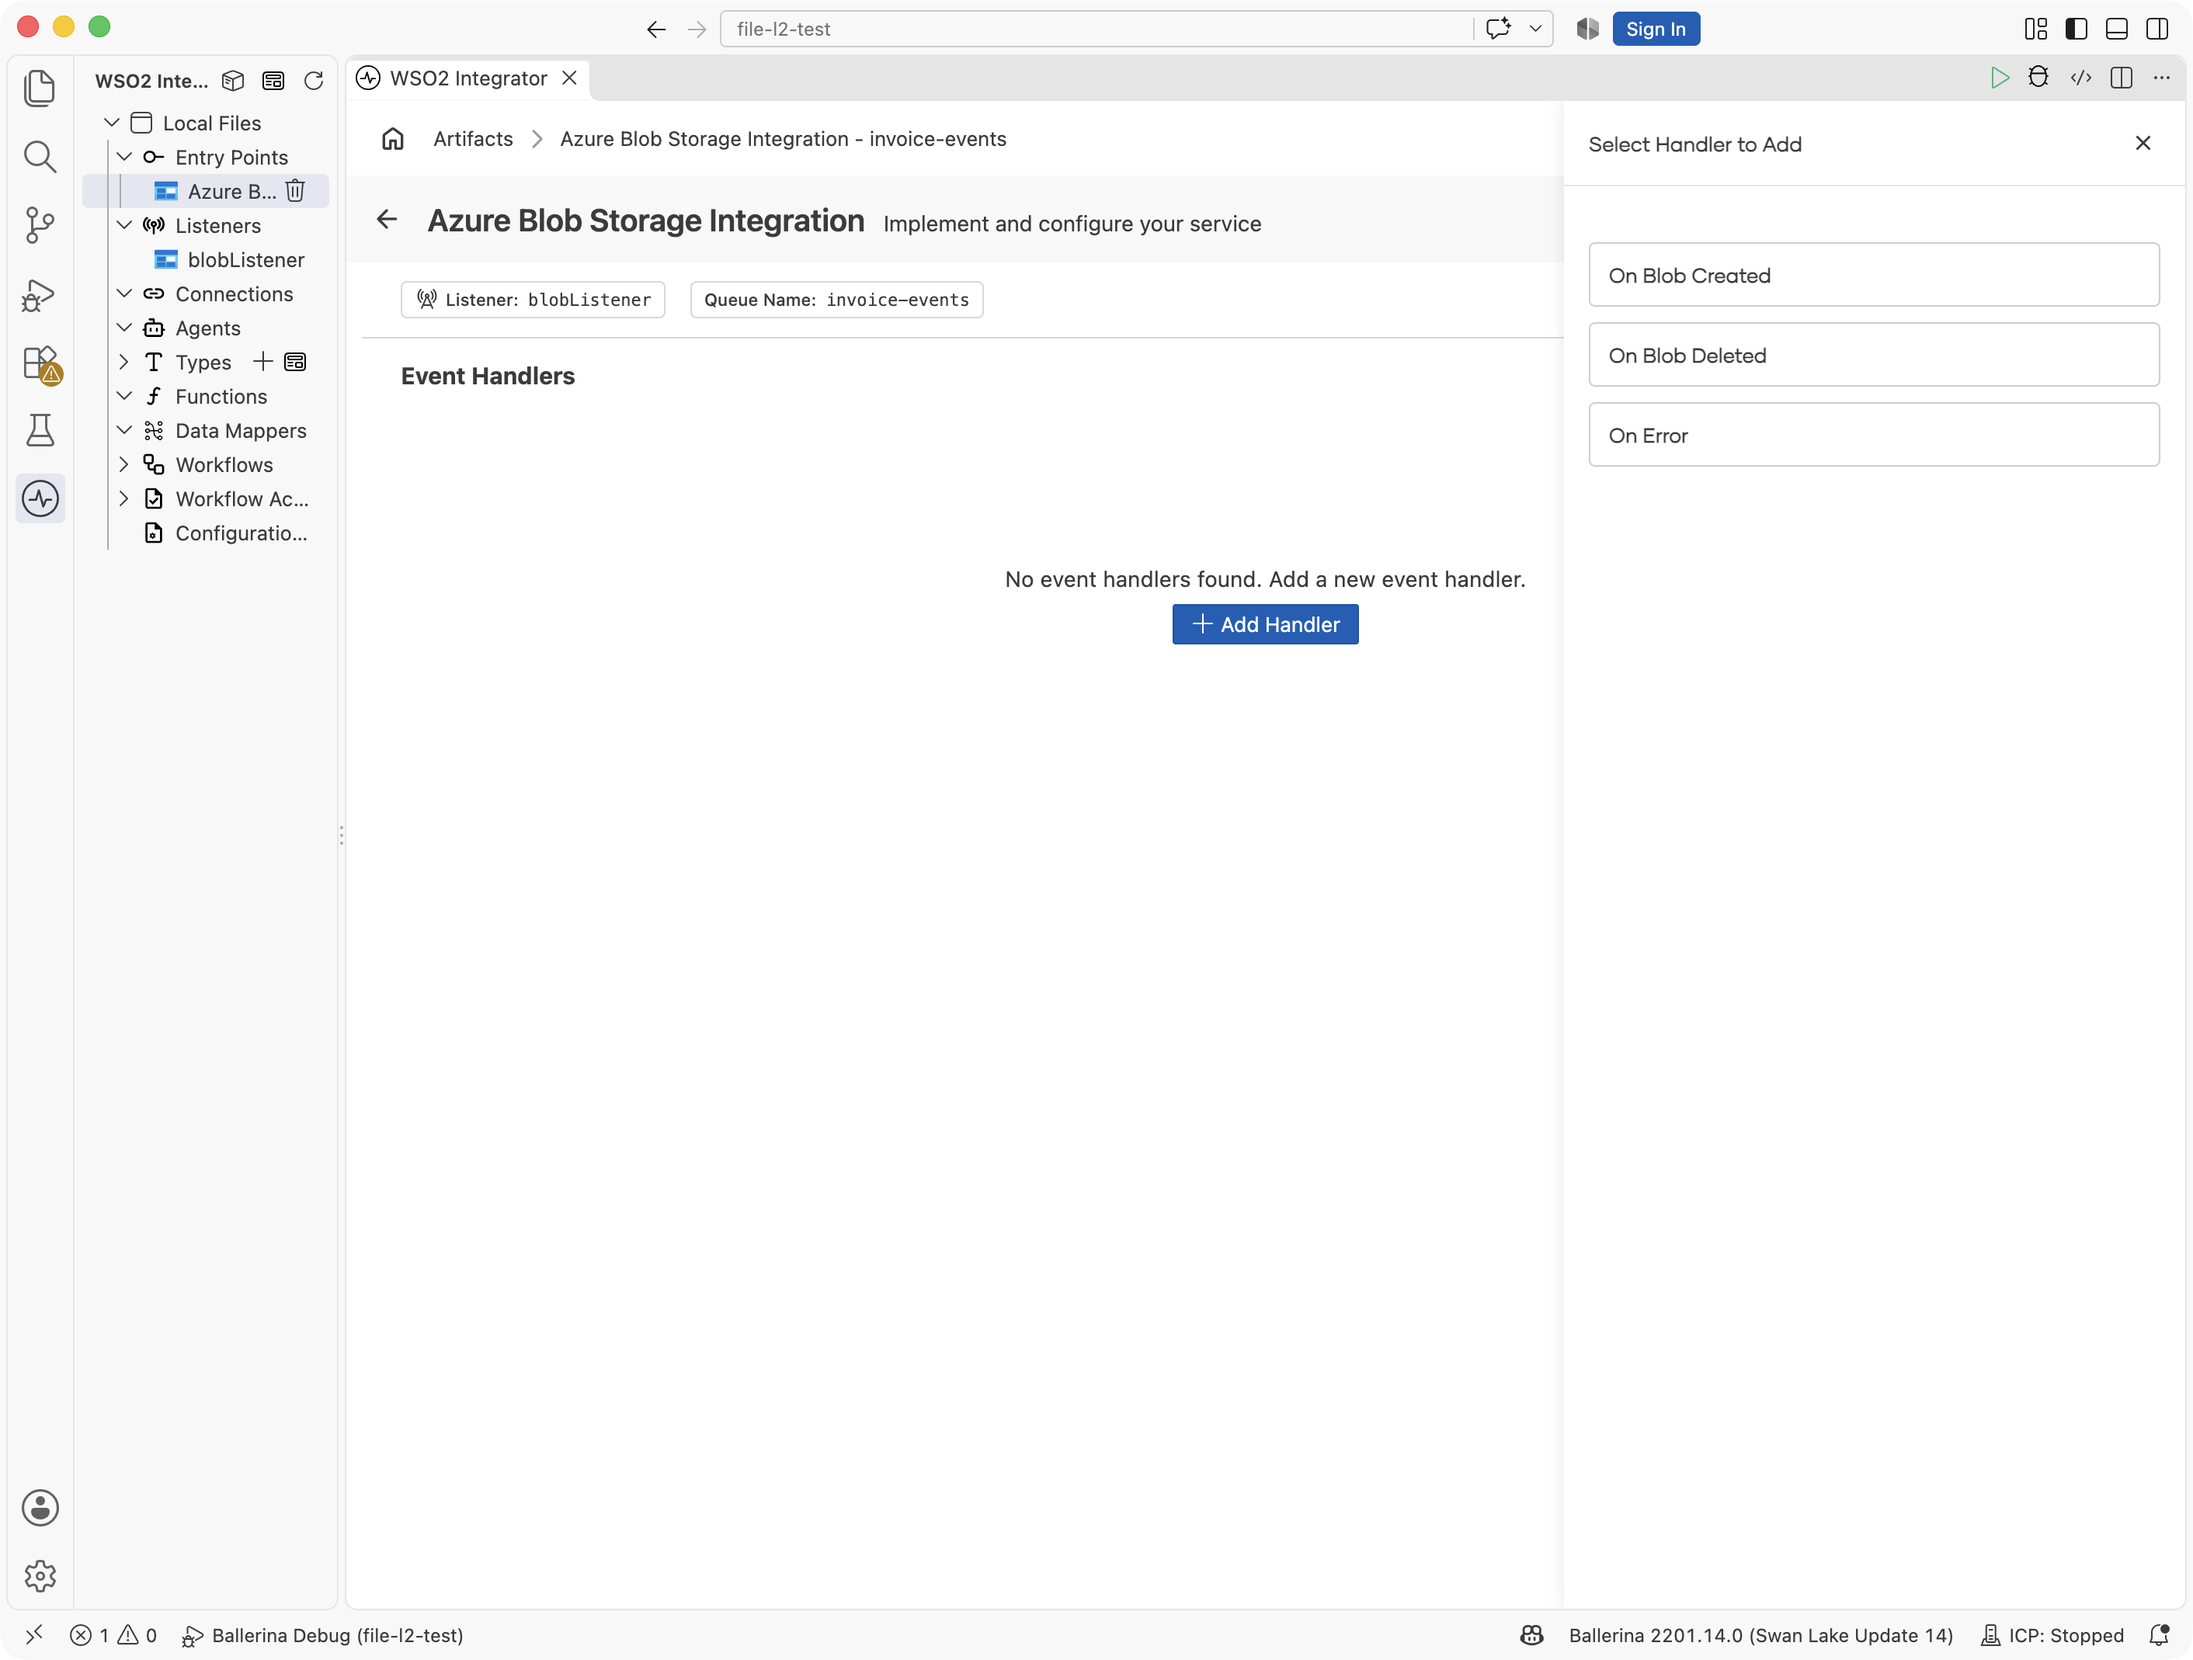
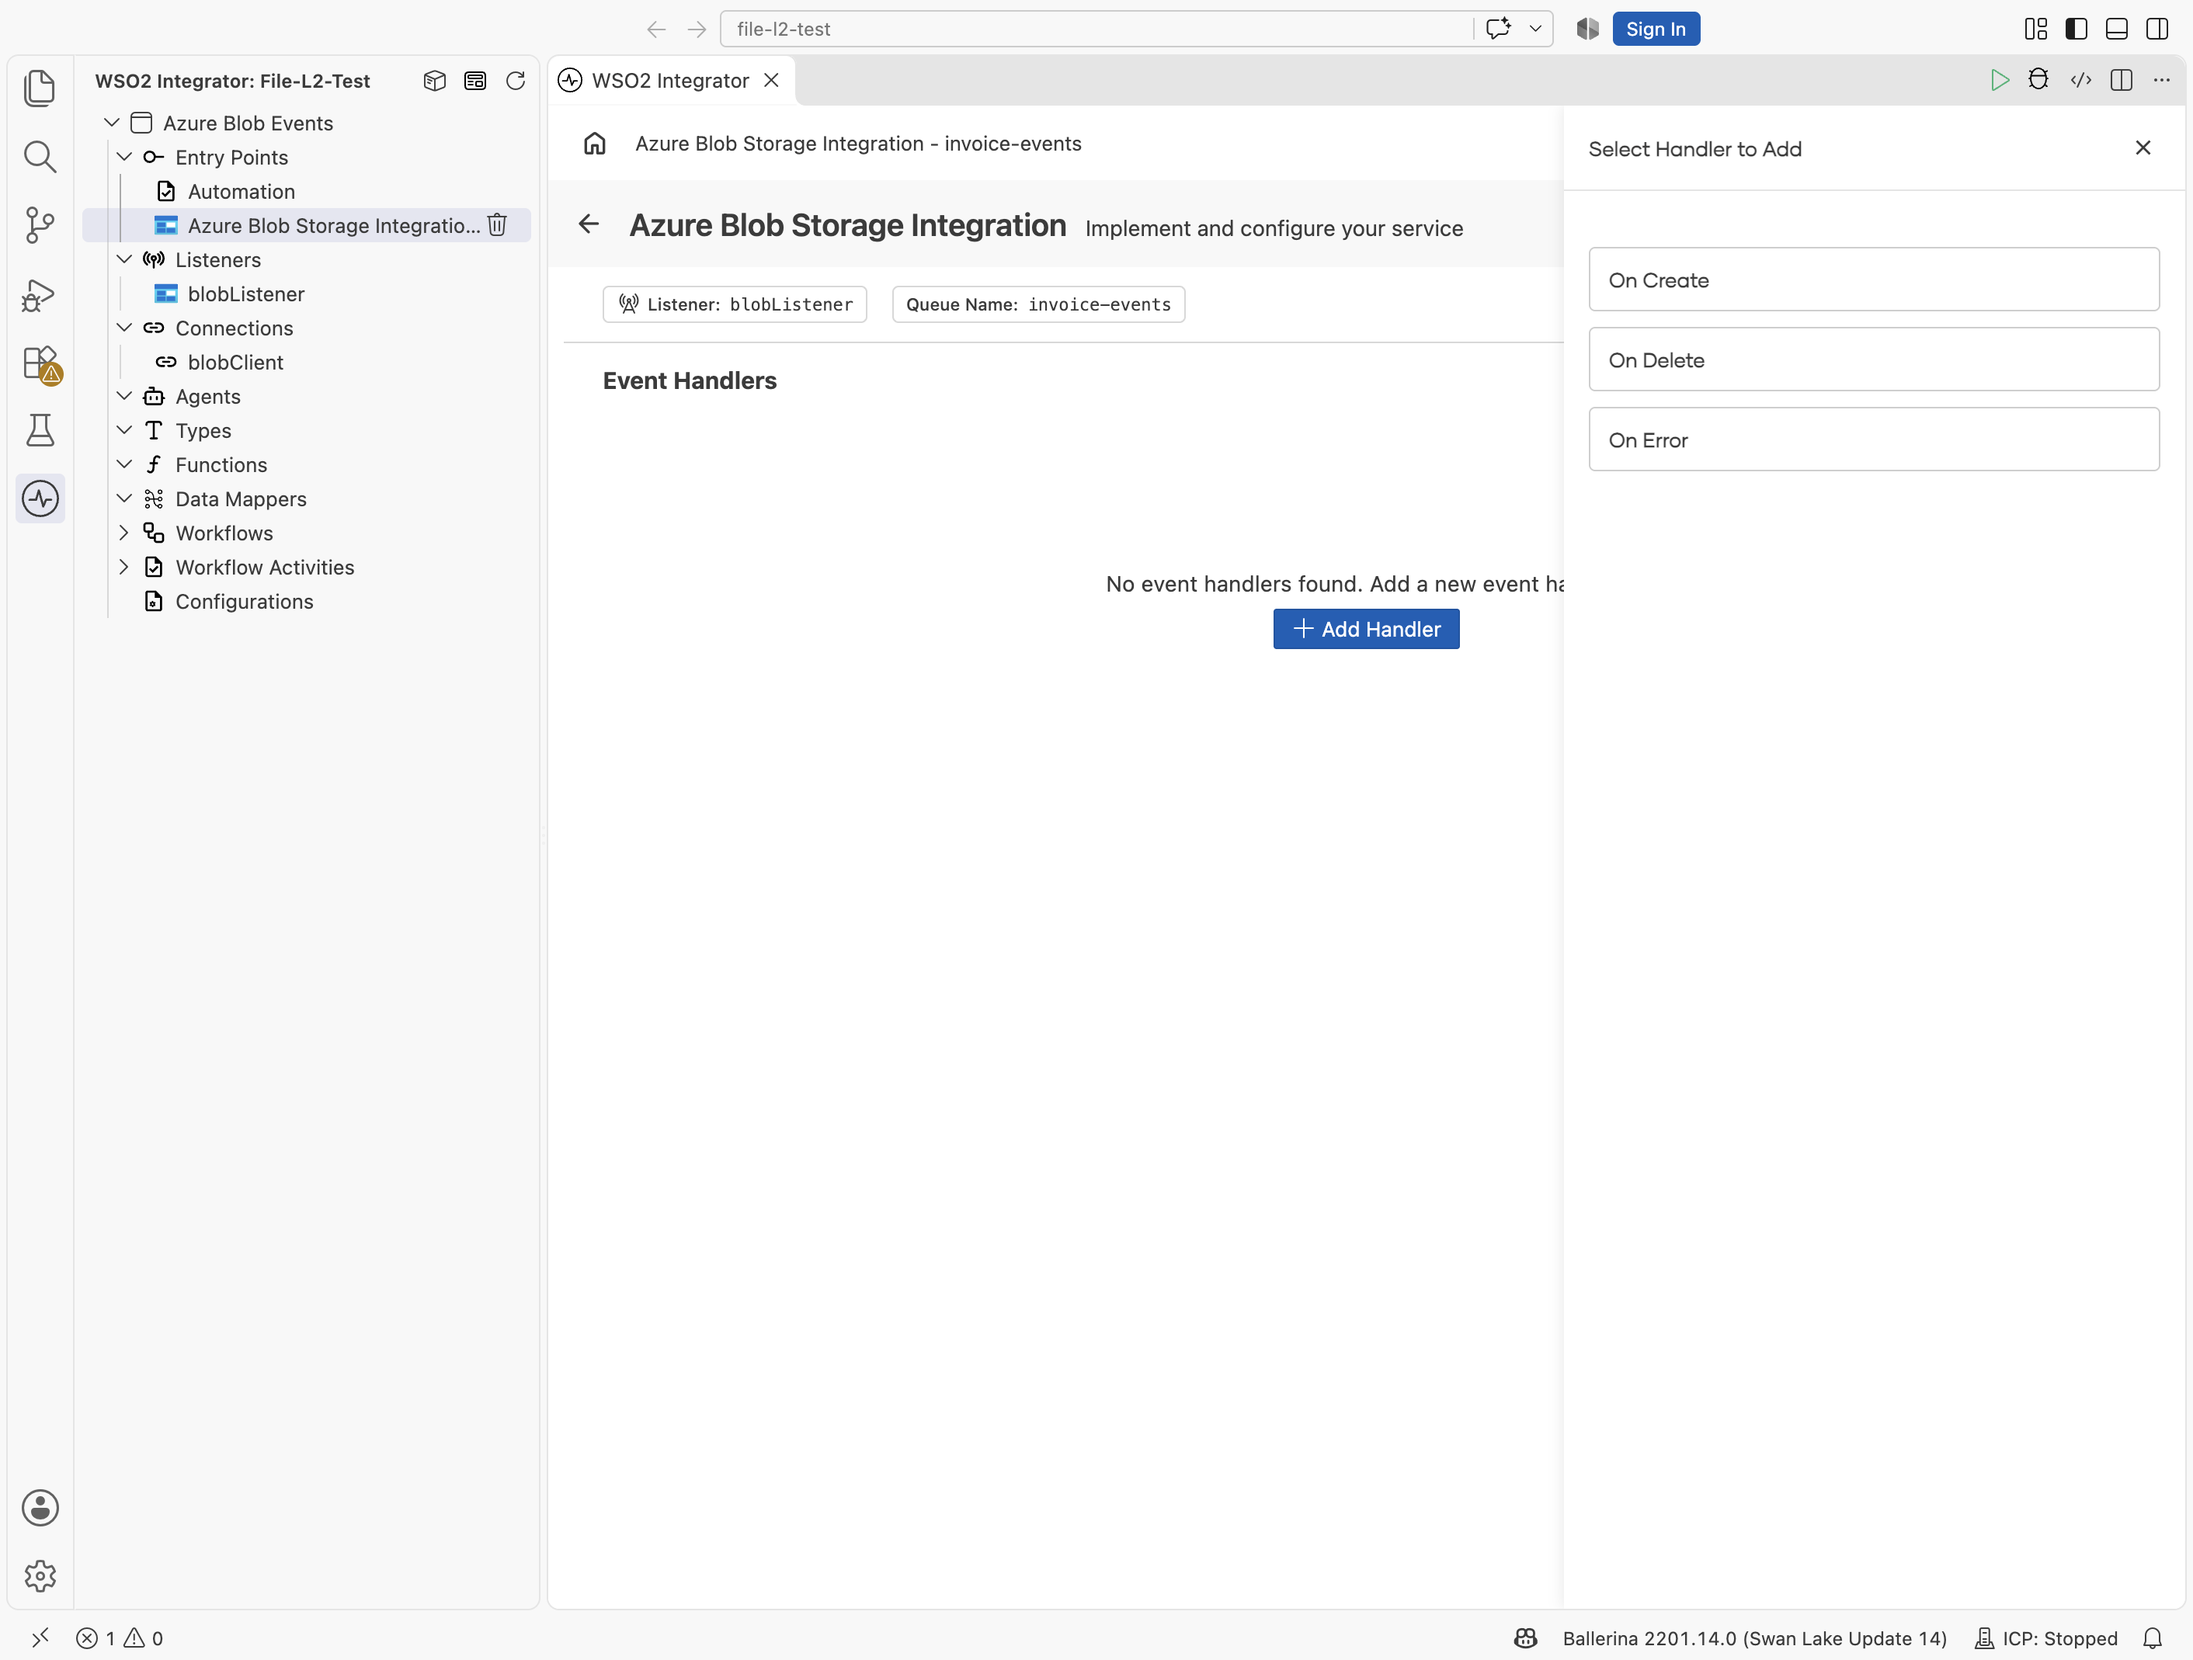
docs(file): rename the Azure Blobs card and refresh the trigger screenshots

diff --git a/en/docs/develop-and-test/integration-artifacts/file-driven-integration/azure-blob-storage.md b/en/docs/develop-and-test/integration-artifacts/file-driven-integration/azure-blob-storage.md
@@ -27,10 +27,10 @@ One flow creates the listener and the service together; the authentication metho
 
 1. Click **+** in the WSO2 Integrator side panel header to open the **New Integration** wizard (on an empty project, the **+ Add Integration or Library** button in the project view opens the same wizard), and continue to the **Type** step.
 
-2. Scroll to the **File Integration** category, select the **Azure Blob Storage** card, and click **Next**.
+2. Scroll to the **File Integration** category, select the **Azure Blobs** card, and click **Next**.
 
    <ThemedImage
-       alt="New Integration wizard with the Azure Blob Storage card selected"
+       alt="New Integration wizard with the Azure Blobs card selected"
        sources={{
            light: useBaseUrl('/img/connectors/catalog/storage-file/azure.storage.blob/azure_blob_trigger_screenshots_01_new_integration_wizard.png'),
            dark: useBaseUrl('/img/connectors/catalog/storage-file/azure.storage.blob/azure_blob_trigger_screenshots_01_new_integration_wizard.png'),
